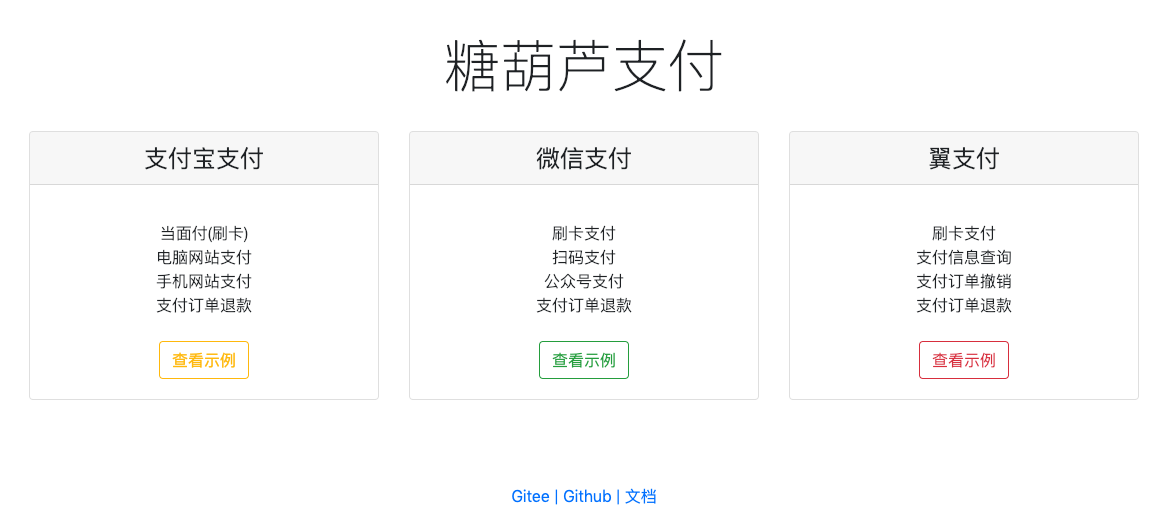
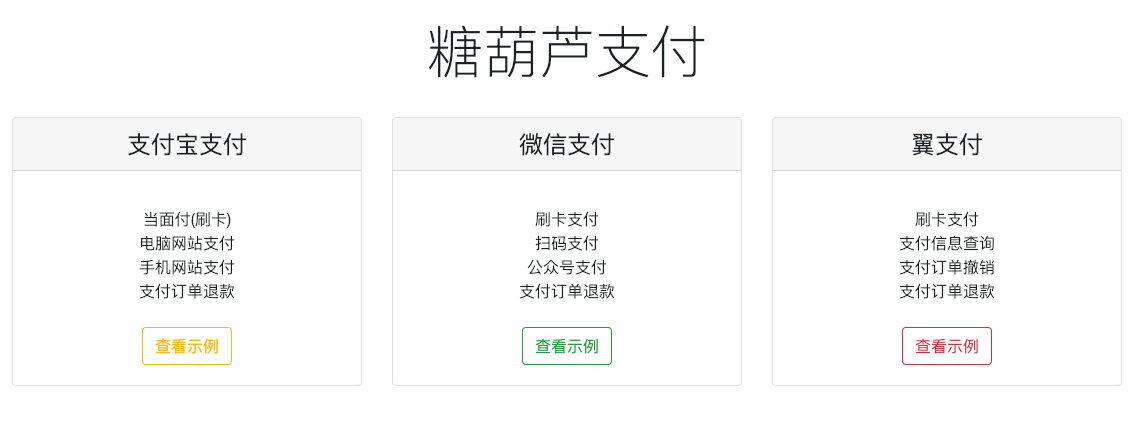
更新首页图

diff --git a/readme.md b/readme.md
@@ -1,7 +1,9 @@
 # 支付示例
 
 ![](img/thldemo.png)
-- 在线Demo [http://39.105.94.70:7171/](http://39.105.94.70:7171/)
+- 在线Demo  [http://39.105.94.70:7171/](http://39.105.94.70:7171/)
+- Github   [https://github.com/thlws/payment-thl](https://github.com/thlws/payment-thl)
+- Gitee    [https://gitee.com/thlws/payment-thl](https://gitee.com/thlws/payment-thl)
 
 
 ## 微信示例
@@ -490,6 +492,174 @@ public class AlipayController {
         System.out.println("===============sync_web====================");
         return "alipay/alipay_sync_web";
     }
+
+}
+
+```
+
+## 翼支付示例
+```java
+
+/**
+ * 翼支付
+ *
+ * @author HanleyTang
+ * @date 2018 -12-02
+ */
+@Controller
+@RequestMapping("/bestpay")
+public class BestpayController {
+
+    private final Logger logger = LoggerFactory.getLogger(getClass());
+
+    @Autowired
+    private BestpayConfig config;
+
+    /**
+     * Index string.
+     *
+     * @return the string
+     */
+    @RequestMapping("/index")
+    public String index(){
+        return "bestpay";
+    }
+
+
+    /**
+     * 适用线下POS付款，类似沃尔玛 店员扫码用户手机完成付款(用户需要安装翼支付App)
+     * 线上环境一般不会这么使用。
+     * @param amt     the amt
+     * @param barcode the barcode
+     * @return the object
+     */
+    @RequestMapping(value = "/pay",produces = MediaType.APPLICATION_JSON_UTF8_VALUE)
+    @ResponseBody
+    public Object pay(@RequestParam(name = "amt")String amt,
+                      @RequestParam(name = "barcode")String barcode){
+
+        try {
+            //单位为分
+            String amount = new BigDecimal(amt).movePointRight(2).longValue()+"";
+
+            BarcodePayRequest request = new BarcodePayRequest();
+            request.setMerchantId(config.getMerchant_id());
+            request.setBarcode(barcode);
+            request.setOrderNo(IdUtil.fastSimpleUUID());
+            request.setOrderReqNo(IdUtil.fastSimpleUUID());//交易流水号
+            request.setOrderDate(DateUtil.format(new Date(),DatePattern.PURE_DATETIME_PATTERN));
+            request.setOrderAmt(amount);
+            request.setProductAmt(amount);
+            request.setGoodsName("测试商品");
+            request.setStoreId("20191008");
+            OrderResultResponse response = BestPayClient.barcode(request, config.getKey());
+            return response;
+        } catch (Exception e) {
+            logger.error("翼支付付款失败",e);
+            return e;
+        }
+
+    }
+
+
+    /**
+     * 查询翼支付付款详情
+     *
+     * @param orderNo the order no
+     * @return the object
+     */
+    @RequestMapping(value = "/query",produces = MediaType.APPLICATION_JSON_UTF8_VALUE)
+    @ResponseBody
+    public Object query(@RequestParam(name = "orderNo")String orderNo,
+                        @RequestParam(name = "reqNo")String reqNo){
+
+
+        try {
+            QueryOrderRequest request = new QueryOrderRequest();
+            request.setMerchantId(config.getMerchant_id());
+            request.setOrderNo(orderNo);//FIXME 支付单号：QueryOrderRequest.orderNo
+            request.setOrderReqNo(reqNo);//FIXME  支付请求号 QueryOrderRequest.orderReqNo
+            request.setOrderDate(DateUtil.format(new Date(),DatePattern.PURE_DATETIME_PATTERN));
+
+            OrderResultResponse response = BestPayClient.query(request, config.getKey());
+            return response;
+        } catch (Exception e) {
+            logger.error("翼支付查询失败",e);
+            return e;
+        }
+    }
+
+
+    /**
+     * 撤销支付订单.
+     *
+     * @param orderNo the order no
+     * @return the object
+     */
+    @RequestMapping(value = "/reverse",produces = MediaType.APPLICATION_JSON_UTF8_VALUE)
+    @ResponseBody
+    public Object reverse(@RequestParam(name = "orderNo")String orderNo,
+                          @RequestParam(name = "reqNo")String reqNo,
+                          @RequestParam(name = "amt",defaultValue = "0.01")String amt){
+
+        try {
+
+            //单位为分
+            String amount = new BigDecimal(amt).movePointRight(2).longValue()+"";
+
+            OrderReverseRequest request = new OrderReverseRequest();
+            request.setMerchantId(config.getMerchant_id());
+            request.setMerchantPwd(config.getMerchant_pwd());
+            request.setOldOrderNo(orderNo);//FIXME 支付单号：QueryOrderRequest.orderNo
+            request.setOldOrderReqNo(reqNo);//FIXME  支付请求号 QueryOrderRequest.orderReqNo
+            request.setRefundReqNo(IdUtil.fastSimpleUUID());
+            request.setRefundReqDate(DateUtil.format(DateUtil.date(), DatePattern.PURE_DATE_PATTERN));
+            request.setTransAmt(amount);
+
+            OrderReverseResponse response = BestPayClient.reverse(request, config.getKey());
+            return response;
+        } catch (Exception e) {
+            logger.error("翼支付撤销失败",e);
+            return e;
+        }
+    }
+
+
+    /**
+     * 退款
+     *
+     * @param orderNo the order no
+     * @return the object
+     */
+    @RequestMapping(value = "/refund",produces = MediaType.APPLICATION_JSON_UTF8_VALUE)
+    @ResponseBody
+    public Object refund(@RequestParam(name = "orderNo")String orderNo,
+                         @RequestParam(name = "reqNo")String reqNo,
+                         @RequestParam(name = "amt",defaultValue = "0.01")String amt){
+
+        try {
+
+
+            //单位为分
+            String amount = new BigDecimal(amt).movePointRight(2).longValue()+"";
+
+            OrderRefundRequest request = new OrderRefundRequest();
+            request.setMerchantId(config.getMerchant_id());
+            request.setOldOrderNo(orderNo);//FIXME 支付单号：QueryOrderRequest.orderNo
+            request.setOldOrderReqNo(reqNo);//FIXME  支付请求号 QueryOrderRequest.orderReqNo
+            request.setMerchantPwd(config.getMerchant_pwd());
+            request.setRefundReqDate(DateUtil.format(DateUtil.date(), DatePattern.PURE_DATE_PATTERN));
+            request.setRefundReqNo(RandomUtil.randomNumbers(16));
+            request.setTransAmt(amount);
+
+            OrderRefundResponse response = BestPayClient.refund(request, config.getKey());
+            return response;
+        } catch (Exception e) {
+            logger.error("翼支付退款失败",e);
+            return e;
+        }
+    }
+
 
 }
 
